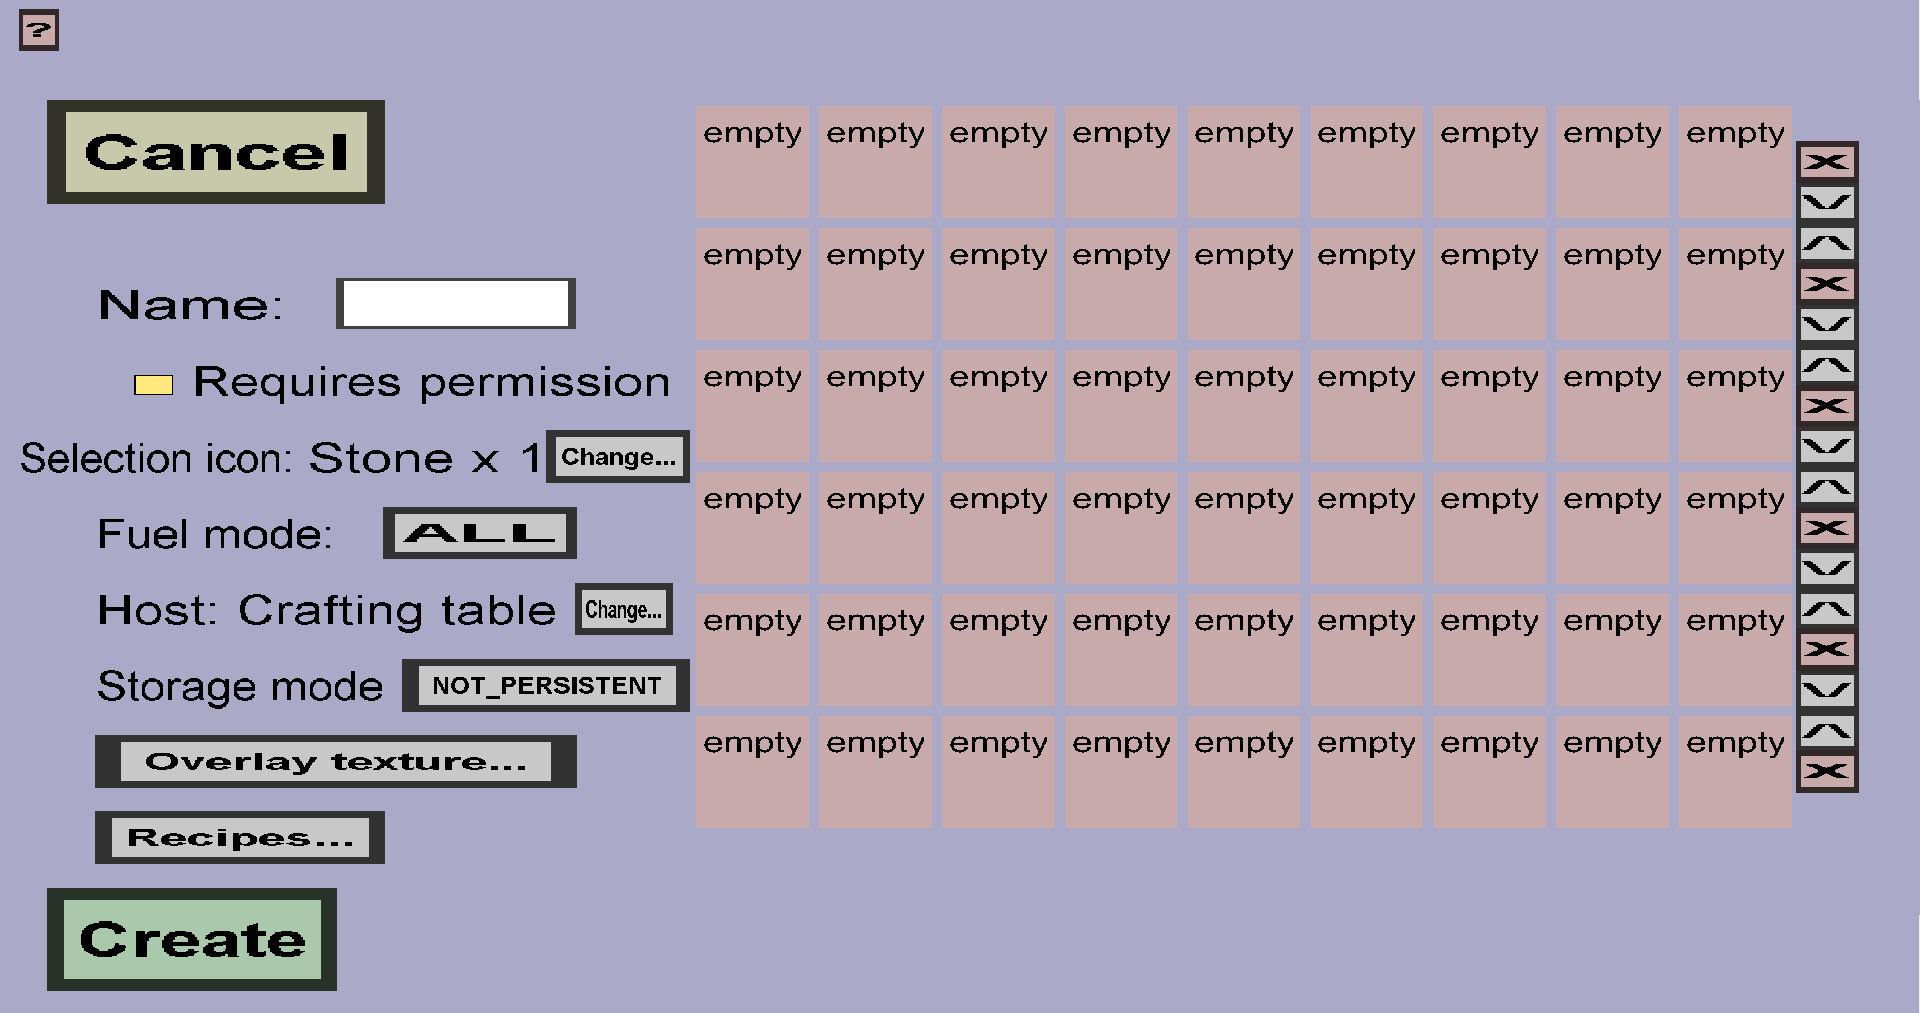
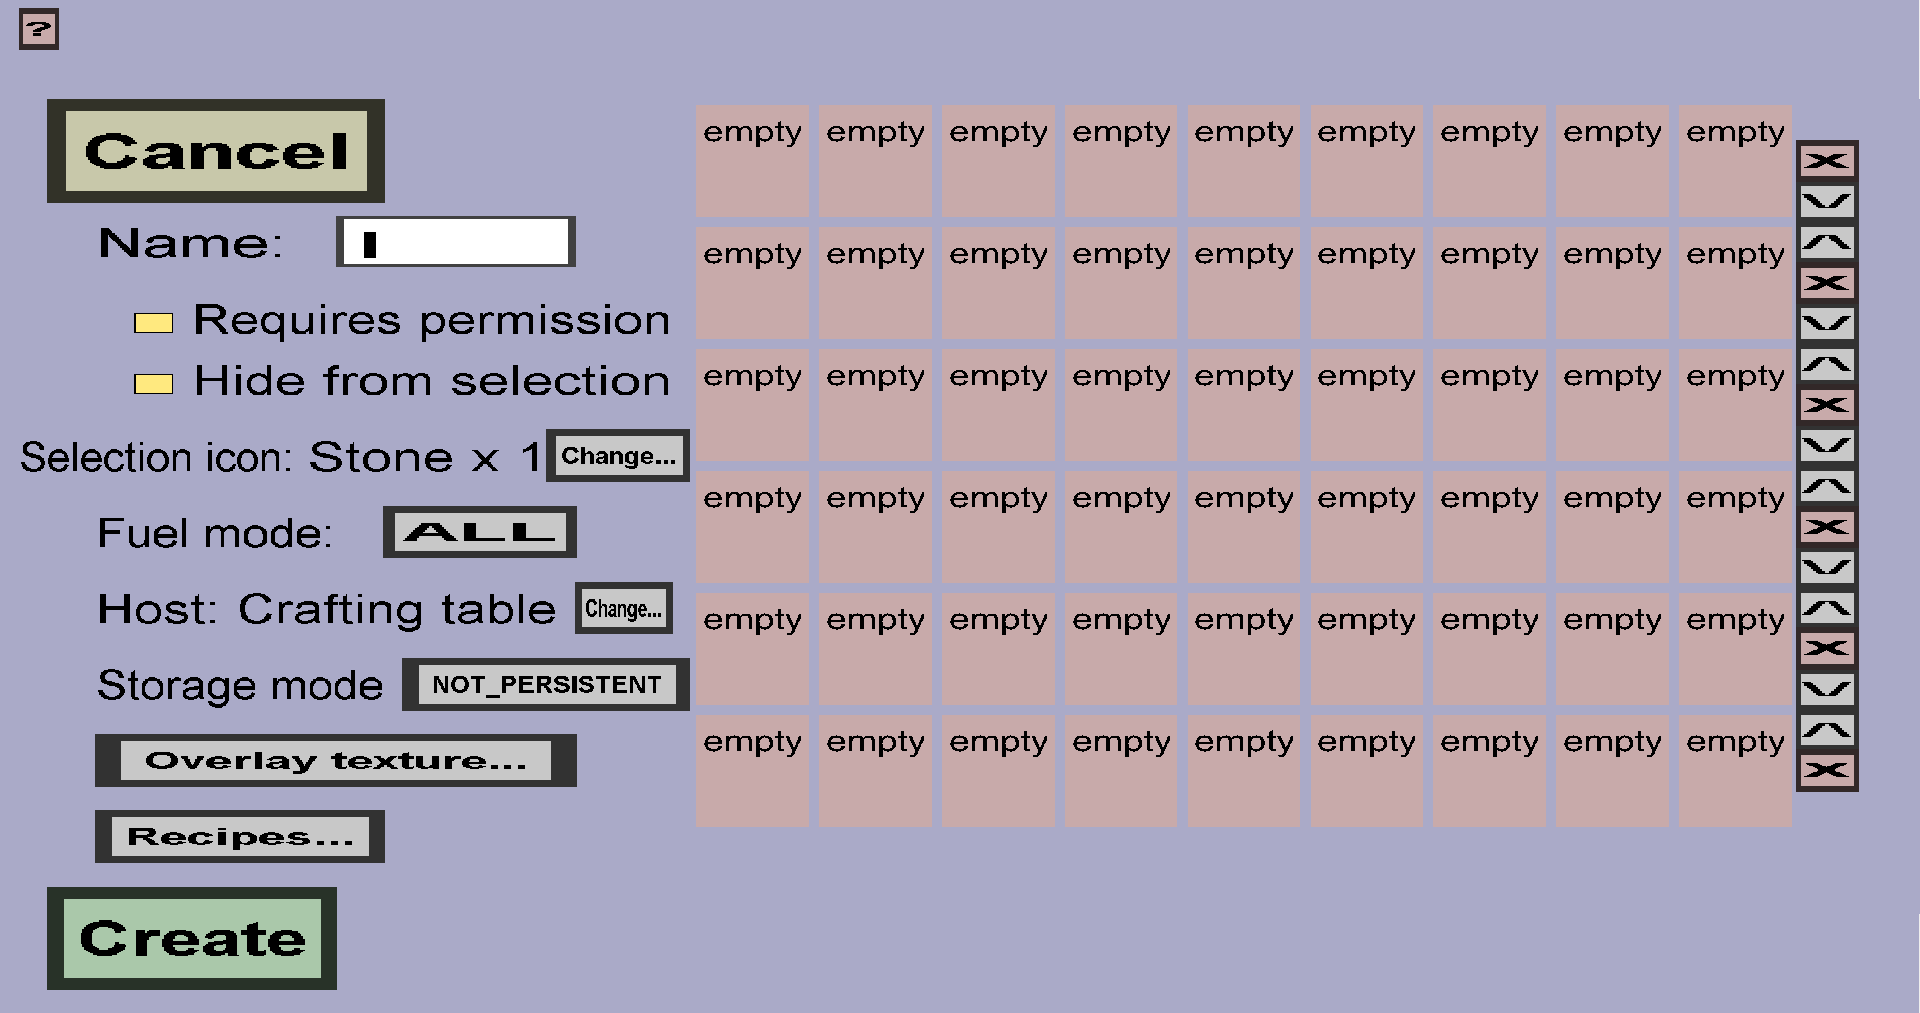
Document the new link slots and action slots of KCI 12

diff --git a/custom items/editor documentation/edit menu/containers/slots/script.html b/custom items/editor documentation/edit menu/containers/slots/script.html
@@ -1,0 +1,233 @@
+<!DOCTYPE html>
+<html>
+    <head>
+        <meta charset="UTF-8" />
+        <title>Script slot menu</title>
+    </head>
+    <body>
+        <p>
+            The script slot menu can be used to create script slots. Script slots will fire <i>events</i>
+            when they are clicked. If you use the Skript or Denizen plug-in, you can listen for these
+            events. Alternatively, you can write your own minecraft plug-in that can listen for it.
+            <b>Scripting slots are useless for you if you can't write scripts or plug-ins.</b>
+            This menu should look like this:
+        </p>
+        <img src="script.png" width="50%" />
+        <h2>Properties</h2>
+        <h3>Action ID</h3>
+        <p>
+            The <b>Action ID</b> distinguishes this event/action from other events. You should typically give
+            every script slot a distinct Action ID. When you use Skript or Denizen, the Action ID also determines
+            how you should listen for this action/event.
+        </p>
+        <h3>Display</h3>
+        <p>
+            The <b>Display</b> determines what the slot looks like. For instance, you could create a custom item
+            with a 'button texture' and display that.
+        </p>
+        <h2>Skript usage</h2>
+        <h3>Listening</h3>
+        To listen for the event, use <b>on kci container action "ActionID":</b><br>
+        The double quotes are required and you should replace <b>ActionID</b> with the right action ID.
+        <h3>Expressions</h3>
+        <ul>
+            <li>
+                <b>event-player</b>: yields the player that clicked on the slot
+            </li>
+            <li>
+                <b>event-inventory</b>: yields the inventory of the custom container
+            </li>
+            <li>
+                <b>event-item</b>: yields the item stack on the cursor of the player who clicked
+            </li>
+            <li>
+                <b>event-clicktype</b>: yields the click-type of the event
+            </li>
+            <li>
+                <b>crafting progress of event-kcicontainer</b>: yields the crafting progress (in ticks) of the container
+                recipe that is currently in progress, or 0 if no container recipe is in progress
+            </li>
+            <li>
+                <b>fuel "fuel_slot_name" of event-kcicontainer</b>: yields the item stack that is currently stored in
+                the fuel slot with name <i>fuel_slot_name</i>
+            </li>
+            <li>
+                <b>burn time of fuel "fuel_slot_name" of event-kcicontainer</b>: yields the remaining time (in ticks) until
+                the fuel slot with name <i>fuel_slot_name</i> stops burning, or 0 if the slot is currently not burning
+            </li>
+            <li>
+                <b>input "input_slot_name" of event-kcicontainer</b>: yields the item stack that is currently stored in
+                the input slot with name <i>input_slot_name</i>
+            </li>
+            <li>
+                <b>output "output_slot_name" of event-kcicontainer</b>: yields the item stack that is currently stored in
+                the output slot with name <i>output_slot_name</i>
+            </li>
+            <li>
+                <b>storage storage_slot_index of event-kcicontainer</b>: yields the item stack that is currently stored
+                in the storage slot with index <i>storage_slot_index</i>: the <i>storage_slot_index</i> must be an integer
+                that is at least 0 and smaller than the number of storage slots of the container
+            </li>
+            <li>
+                <b>stored experience of event-kcicontainer</b>: yields the amount of experience that is currently stored
+                in the custom container, which will be claimed whenever a player clicks on an output slot
+            </li>
+        </ul>
+        <h3>Effects</h3>
+        <ul>
+            <li>
+                <b>set fuel "fuel_slot_name" of event-kcicontainer to new_fuel_item</b>: Puts the item stack 
+                <i>new_fuel_item</i> in the fuel slot named <i>fuel_slot_name</i>
+            </li>
+            <li>
+                <b>set burn time of fuel "fuel_slot_name" of event-kcicontainer to new_burn_time</b>: Lets the fuel
+                slot named <i>fuel_slot_name</i> burn for <i>new_burn_time</i> ticks, without needing any fuel
+            </li>
+            <li>
+                <b>set input "input_slot_name" of event-kcicontainer to new_input_item</b>: Puts the item stack
+                <i>new_input_item</i> in the input slot named <i>input_slot_name</i>
+            </li>
+            <li>
+                <b>set output "output_slot_name" of event-kcicontainer to new_output_item</b>: Puts the item stack
+                <i>new_output_item</i> in the output slot named <i>output_slot_name</i>
+            </li>
+            <li>
+                <b>set storage storage_slot_index of event-kcicontainer to new_storage_item</b>: Puts the item stack
+                <i>new_storage_item</i> in the storage slot with index <i>storage_slot_index</i>, where
+                <i>storage_slot_index</i> is an integer that is at least 0 and smaller than the total number of storage
+                slots of the container
+            </li>
+            <li>
+                <b>set stored experience of event-kcicontainer to new_amount</b>: Stores <i>new_amount</i>
+                experience in the custom container, which will be given to the next player who clicks on an
+                output slot
+            </li>
+            <li>
+                <b>switch container of event-player to "other_container_name"</b>: Lets the player close this
+                custom container and open the custom container with name <i>other_container_name</i>. This
+                is basically the same as what a <a href="link.html">link slot</a> does, and carries the same
+                restrictions (e.g. the containers must have the same hosts).
+            </li>
+        </ul>
+        <h2>Denizen usage</h2>
+        <h3>Listening</h3>
+        To listen for the event, use <b>on kci container action action_id:</b>, where <i>action_id</i>
+        is the Action ID of this slot.
+        <h3>Context properties</h3>
+        <ul>
+            <li><b>context.cursor_item</b>: The item stack on the cursor of the player who clicked the action slot</li>
+            <li><b>context.click_type</b>: The name of the click type</li>
+            <li><b>context.is_shift_click</b>: Whether the player was holding shift while clicking the action slot</li>
+            <li><b>context.container_name</b>: The name of the custom container whose action slot was clicked</li>
+            <li><b>context.container_inventory</b>: The inventory of the clicked custom container</li>
+            <li>
+                <b>context.inputs</b>: A <i>MapTag</i> that maps the names of all input slots to the item stacks stored
+                in each input slot
+            </li>
+            <li>
+                <b>context.inputs(input_slot_name)</b>: The item stack that is stored in the input slot
+                named <i>input_slot_name</i>
+            </li>
+            <li>
+                <b>context.outputs</b>: A <i>MapTag</i> that maps the names of all output slots to the item stacks stored
+                in each output slot
+            </li>
+            <li>
+                <b>context.outputs(output_slot_name)</b>: The item stack that is stored in the output slot
+                named <i>output_slot_name</i>
+            </li>
+            <li>
+                <b>context.fuel</b>: A <i>MapTag</i> that maps the names of all fuel slots to the item stack stored
+                in each fuel slot
+            </li>
+            <li>
+                <b>context.fuel(fuel_slot_name)</b>: The item stack that is stored in the fuel slot
+                named <i>fuel_slot_name</i>
+            </li>
+            <li><b>context.storage</b>: A <i>ListTag</i> containing the contents of all storage slots</li>
+            <li>
+                <b>context.storage(storage_slot_index)</b>: The item stack that is stored in the storage slot
+                with index <i>storage_slot_index</i>, where <i>storage_slot_index</i> is an integer that is
+                at least 0 and smaller than the number of storage slots of the container
+            </li>
+            <li>
+                <b>context.fuel_burn_times</b>: A <i>MapTag</i> that maps each fuel slot name of the container to its
+                remaining burn time (in ticks), or 0 for each fuel slot that is not burning
+            </li>
+            <li>
+                <b>context.fuel_burn_time(fuel_slot_name)</b>: The remaining burn time of the fuel slot named
+                <i>fuel_slot_name</i>, or 0 if the slot is not burning
+            </li>
+            <li>
+                <b>context.crafting_progress</b>: The progress of the current container recipe (in ticks),
+                or 0 if no container recipe is currently in progress
+            </li>
+            <li>
+                <b>context.stored_experience</b>: The amount of experience that is currently stored in the
+                custom container, which players can claim by clicking on an output slot
+            </li>
+        </ul>
+        <h3>Context determinations</h3>
+        Note: the action IDs and slot names of custom containers are case sensitive, but Denizen seems to 
+        automatically convert your determinations to lowercase (probably because Denizen scripts are not meant to be 
+        case sensitive). If you would like to manipulate your container slots via Denizen, I recommend using only lowercase
+        characters for your action IDs and slot names.
+        <ul>
+            <li>
+                <b>determine inputs.input_slot_name:itemstack</b>: Put <i>itemstack</i> in the input slot named
+                <i>input_slot_name</i>
+            </li>
+            <li>
+                <b>determine outputs.output_slot_name:itemstack</b>: Put <i>itemstack</i> in the output slot named
+                <i>output_slot_name</i>
+            </li>
+            <li>
+                <b>determine fuel.fuel_slot_name:itemstack</b>: Put <i>itemstack</i> in the fuel slot named
+                <i>fuel_slot_name</i>
+            </li>
+            <li>
+                <b>determine storage.storage_slot_index:itemstack</b>: Put <i>itemstack</i> in the storage slot
+                with index <i>storage_slot_index</i>, where <i>storage_slot_index</i> is an integer that is at
+                least 0 and smaller than the number of storage slots of the custom container
+            </li>
+            <li>
+                <b>determine fuel_burn_time.fuel_slot_name:duration</b>: Lets the fuel slot named
+                <i>fuel_slot_name</i> burn for <i>duration</i> ticks, which does <b>not</b> consume or require
+                any fuel item stacks
+            </li>
+            <li>
+                <b>determine switch_container:new_container_name</b>: Lets the player close this
+                custom container and open the custom container with name <i>new_container_name</i>. This
+                is basically the same as what a <a href="link.html">link slot</a> does, and carries the same
+                restrictions (e.g. the containers must have the same hosts).
+            </li>
+        </ul>
+        <h2>Java usage</h2>
+        <h3>Listening</h3>
+        <p>
+            To listen for the Bukkit/Java event, you need to create a plug-in that listens for the
+            <b>nl.knokko.customitems.plugin.events.CustomContainerActionEvent</b> event. To import
+            this, you will need to add CustomItems.jar to your classpath.
+        </p>
+        <h3>Properties</h3>
+        <p>
+            <li>
+                <b>actionID</b>: The Action ID of the clicked action slot. If you have multiple action slots, you
+                should compare this with the Action ID of the slot you are interested it.
+            </li>
+            <li>
+                <b>container</b>: The <i>ContainerInstance</i> of the custom container whose slot was clicked.
+                You can call its methods to query and/or modify the state of the custom container. You can use
+                your tab completions to discover the possibilities.
+            </li>
+            <li>
+                <b>clickEvent</b>: The <i>InventoryClickEvent</i> that caused this event. You can use this event to
+                query the cursor item or the click type.
+            </li>
+            <li>
+                <b>itemSet</b>: The <i>ItemSetWrapper</i> of your item set. You can use this to query your own
+                item set. Also check out its <b>get()</b> method, which you can use to query even more data.
+            </li>
+        </p>
+    </body>
+</html>

diff --git a/custom items/editor documentation/edit menu/containers/slots/link.html b/custom items/editor documentation/edit menu/containers/slots/link.html
@@ -1,0 +1,26 @@
+<!DOCTYPE html>
+<html>
+    <head>
+        <meta charset="UTF-8" />
+        <title>Link slot menu</title>
+    </head>
+    <body>
+        <p>
+            The link slot menu can be used to create link slots for a custom container. Every link slot has a
+            <i>target container</i>. Whenever a player clicks on a link slot, he will close his current custom container
+            and open the target container. This menu should look like this:
+        </p>
+        <img src="link.png" width="50%" />
+        <h3>Container</h3>
+        <p>
+            The <i>Target container</i>: when a player clicks on this slot, he will open that container. <b>Note:
+            if the target container requires permission, the player will need that permission. Also, the target
+            container must have the same <i>host</i> as this container.</b>
+        </p>
+        <h3>Display</h3>
+        <p>
+            The <i>Display</i> determines what this slot will look like. If you don't choose a display, it will look like
+            en empty slot.
+        </p>
+    </body>
+</html>

diff --git a/custom items/editor documentation/edit menu/containers/edit.html b/custom items/editor documentation/edit menu/containers/edit.html
@@ -46,6 +46,12 @@
                 <b>customitems.container.openany</b> permission will be able to open this container.
             </li>
             <li>
+                If you check <b>Hide from selection</b>, players won't be able to open the container by clicking its
+                host block or its pocket container. Instead, players will only be able to open the container via commands
+                or link slots of other containers. You can use this to create <i>hidden</i> child containers that can be
+                accessed via a link slot of its <i>visible</i> parent container.
+            </li>
+            <li>
                 <p>
                     The <b>Host</b> block and <b>Selection icon</b> determine how players can open this
                     custom container. The Host can be a vanilla container, a vanilla block, a custom block, or nothing.

diff --git a/custom items/editor documentation/edit menu/containers/slots/create.html b/custom items/editor documentation/edit menu/containers/slots/create.html
@@ -20,6 +20,14 @@
                 you came from.
             </li>
             <li>
+                The 'Execute script' button will take you to the <a href="script.html">script slot menu</a>.
+                These slots generate Skript/Denizen events when they are clicked, and are rather advanced.
+            </li>
+            <li>
+                The 'Link to other container' will take you to the <a href="link.html">link slot menu</a>.
+                When players click on a link slot, they will open another custom container.
+            </li>
+            <li>
                 The 'Energy indicator' button will take you to the 
                 <a href="energy indicator.html">energy indicator menu</a>. These kind
                 of slots are used to show the players how much energy of a custom energy type is stored in
